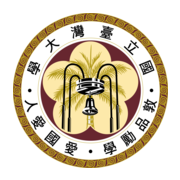
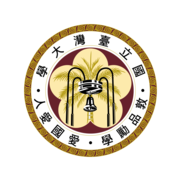
[MY NTU] Add Accessibility

diff --git a/src/components/Draggable.vue b/src/components/Draggable.vue
@@ -4,13 +4,21 @@
       <template #item="{ element }">
         <v-list-item
           v-ripple="false"
-          prepend-avatar="/ntu.png"
           :href="element.href"
           target="_blank"
           rel="noopener"
           @click="props.itemClick?.(element)"
           style="padding: 8px 16px; max-height: 999999px"
         >
+          <template #prepend>
+            <v-avatar size="40">
+              <v-img src="/ntu.webp">
+                <template #sources>
+                  <source srcset="/ntu.png" />
+                </template>
+              </v-img>
+            </v-avatar>
+          </template>
           <!-- prevent chrome mobile change font-size -->
           <v-list-item-title>
             <slot :element="element" />

diff --git a/src/components/DataFooter.vue b/src/components/DataFooter.vue
@@ -4,9 +4,9 @@
       <span>資料來源：{{ source }}</span>
       <br />
     </template>
-    <a @click="execute()">
+    <span @click="execute()">
       <slot />
-    </a>
+    </span>
   </p>
 </template>
 
@@ -23,7 +23,7 @@ p {
   font-size: 14px;
   text-align: center;
 }
-a {
+span {
   cursor: pointer;
   text-decoration: underline;
   text-underline-offset: 3px;

diff --git a/src/components/TheNavbar.vue b/src/components/TheNavbar.vue
@@ -7,6 +7,7 @@
     <v-btn
       size="small"
       :icon="mode === 'light' ? mdiBrightness2 : mdiWhiteBalanceSunny"
+      aria-label="Toggle light/dark theme"
       @click="nextMode()"
     />
   </v-app-bar>
